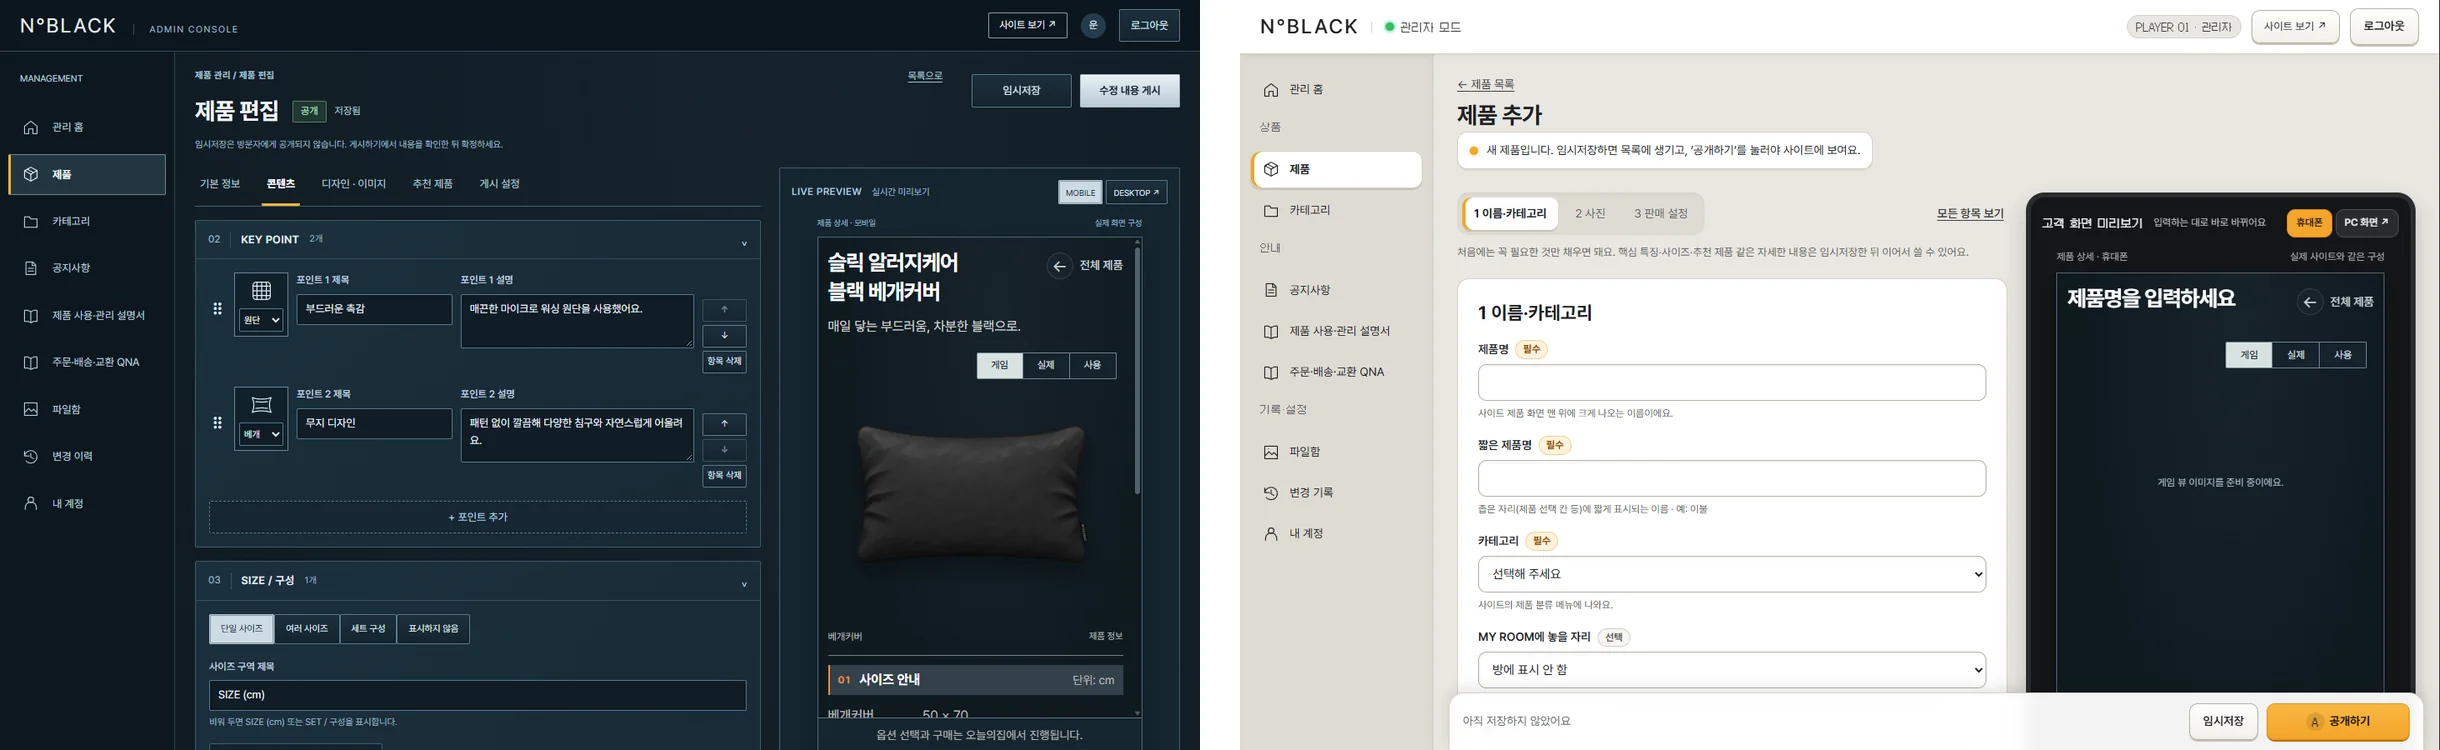
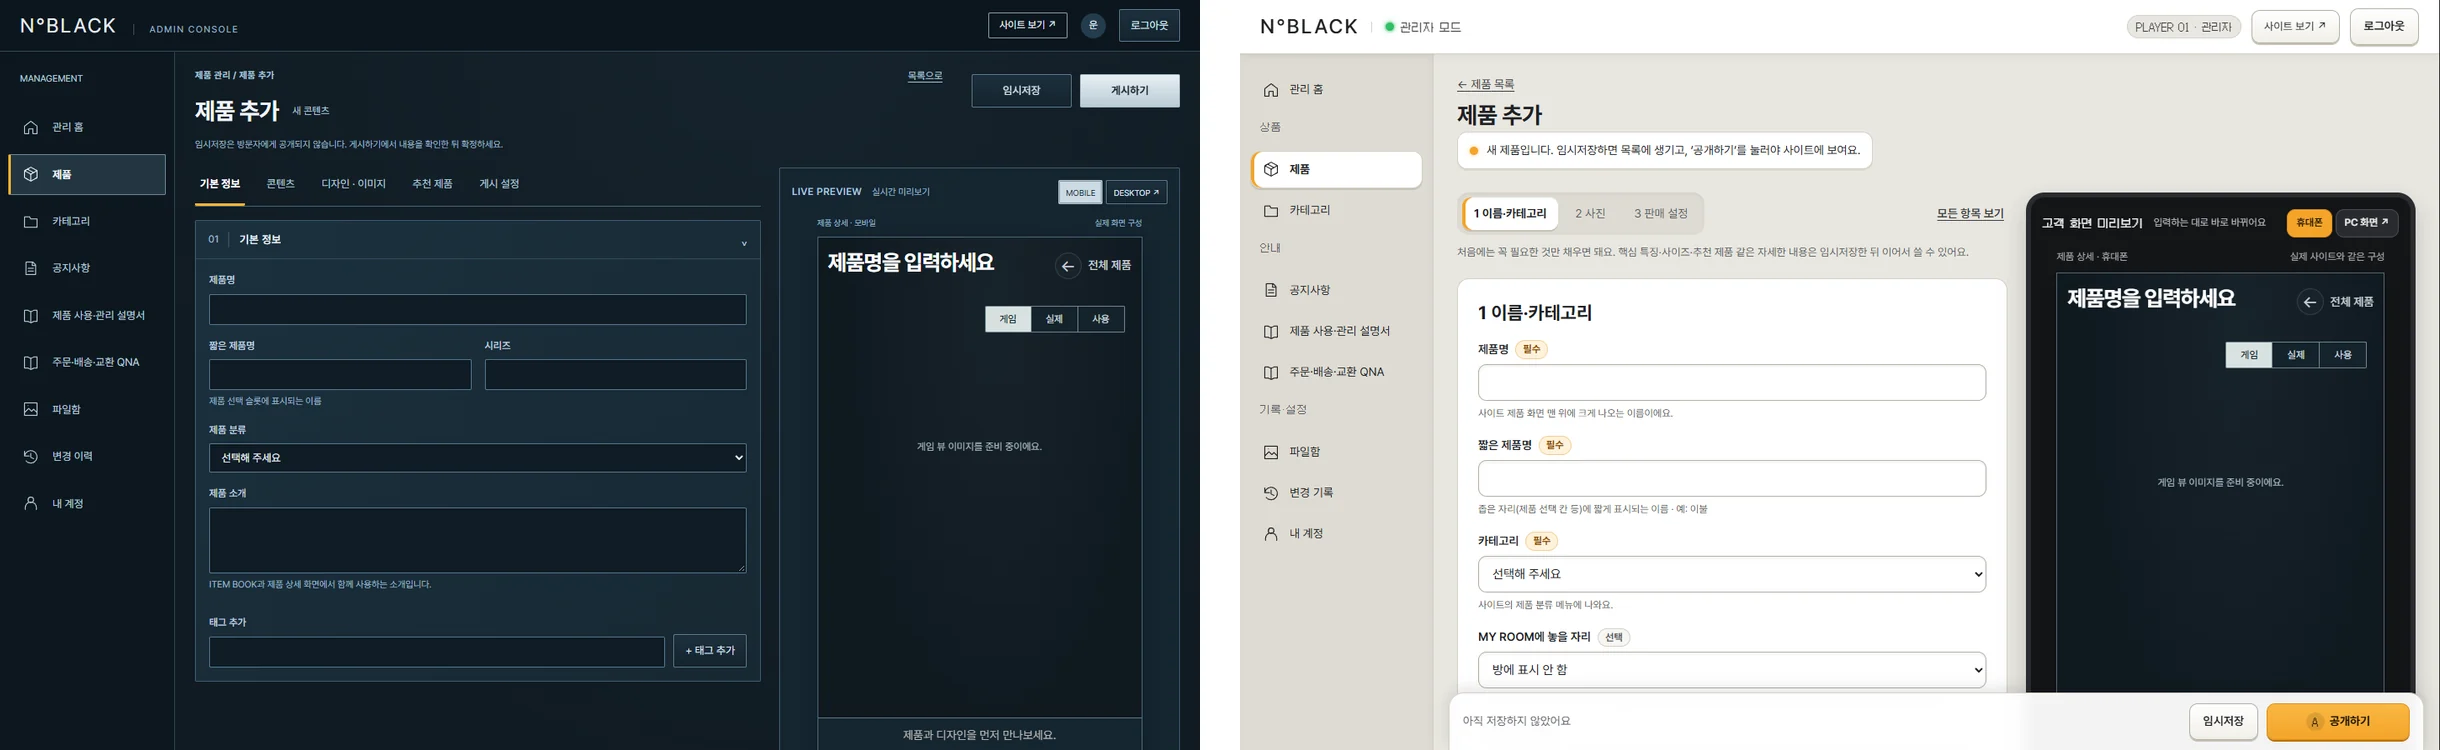
fix: 사례 03 비교를 같은 제품 추가 화면끼리로 바꾸고 결과 문구 정정
개선 전 콘텐츠 탭과 개선 후 제품 추가 1단계는 서로 다른 화면이고, 콘텐츠 탭은 개선 전후 입력 칸 수가 같아 비교 근거가 되지 않았습니다.
개선 전 코드(3bfa741)의 제품 추가 첫 화면을 다시 캡처해 같은 화면끼리 비교하고, 결과를 칸 수 감소가 아닌 안 쓰이던 칸 제거와 필수·선택·표시 위치 안내로 고쳤습니다.

diff --git a/src/project-details.js b/src/project-details.js
@@ -484,13 +484,13 @@ const noblack = {
       found: '운영을 시작한 뒤 대표가 직접 제품을 등록·수정하면서 관리자 화면을 어려워했습니다. 개발자가 아닌 사람이 처음 쓴다고 생각하고 화면과 저장 데이터를 다시 점검했습니다.',
       cause: '새 제품도 기존 제품과 같은 편집 화면에서 탭 5개(기본 정보 / 콘텐츠 / 디자인·이미지 / 추천 제품 / 게시 설정)를 오가며 입력해야 했고, 꼭 채워야 하는 칸과 비워도 되는 칸이 구분되지 않았습니다. 안내 문구에는 ITEM BOOK 같은 사이트 내부 이름이 그대로 쓰였고, 미리보기는 있었지만 입력 칸과 연결되지 않아 값이 고객 화면 어디에 나오는지 알기 어려웠습니다. 저장 데이터도 확인해 보니 태그·제품 이야기는 저장만 되고 사이트에 나오지 않았고, 시리즈는 "SLICK이면 침대 위에 놓는다"는 숨은 규칙에만 쓰이고 있었습니다.',
       fix: [
-        '<b>새 제품은 3단계로</b>: 이름·카테고리 → 사진 → 판매 설정 순서로 꼭 필요한 것만 받고, 자세한 내용은 임시저장 뒤 이어서 쓰게 함. 칸마다 필수·선택을 표시하고, 비어 있는 선택 영역은 접어 둠',
+        '<b>새 제품은 3단계로</b>: 이름·카테고리 → 사진 → 판매 설정 순서로 꼭 필요한 것만 받고, 자세한 내용은 임시저장 뒤 이어서 쓰게 함. 칸마다 필수·선택과 사이트 어디에 나오는지를 적고, 비어 있는 선택 영역은 접어 둠',
         '<b>입력 칸과 고객 화면 연결</b>: 칸을 누르면 미리보기에서 그 값이 나오는 자리가 강조되고, "무엇을 바꾸시겠어요?" 바로가기로 고칠 곳에 바로 이동. 안내 문구는 쉬운 말로 바꾸고, 관리자 화면은 흔한 쇼핑몰 관리자처럼 밝은 작업 화면으로 바꿈',
         '<b>쓰지 않는 칸 정리</b>: 사이트에 나오지 않던 태그·제품 이야기 칸을 없애고, 시리즈에 숨어 있던 규칙은 제품마다 고르는 MY ROOM 자리(침대·소파·방에 표시 안 함)로 바꿈',
         '<b>직접 정한 기준</b>: 잘 안 쓰는 기능을 "고급" 메뉴로 숨기는 안은 대표가 기능이 있는지조차 모를 수 있어 빼고, 큰 사진은 자동으로 줄이지 않고 줄여서 올릴지 먼저 물어보게 함',
       ],
-      result: '새 제품 등록을 탭 5개에서 3단계로 줄이고, 쓰지 않던 입력 칸 3개(태그·제품 이야기·시리즈)를 없앰', resultNote: '운영 제품 9개를 예전 규칙과 같은 자리로 옮기고, 규칙이 같은지 테스트로 확인',
-      image: { src: '/assets/noblack-screens/admin-before-after.webp', w: 2440, h: 750, alt: '관리자 화면 개선 전후. 왼쪽 개선 전 제품 편집은 어두운 화면의 콘텐츠 탭으로, 탭 5개 아래에 KEY POINT와 SIZE / 구성 영역이 이어지고 포인트마다 아이콘 선택·순서 버튼·항목 삭제가 붙어 있음. 오른쪽 개선 후 새 제품 추가는 밝은 화면에 1 이름·카테고리, 2 사진, 3 판매 설정 단계가 있고 제품명·짧은 제품명·카테고리에 필수, MY ROOM에 놓을 자리에 선택 표시가 붙음', caption: '개선 전 콘텐츠 탭(왼쪽, 개선 전 코드를 운영 데이터로 다시 띄워 캡처)과 개선 후 새 제품 등록(오른쪽, 운영 화면 캡처)' },
+      result: '안 쓰이던 칸(태그·제품 이야기·시리즈)을 없애고, 필수·선택과 표시 위치를 알려 주는 3단계 등록으로 바꿈', resultNote: '운영 제품 9개를 예전 규칙과 같은 자리로 옮기고, 규칙이 같은지 테스트로 확인',
+      image: { src: '/assets/noblack-screens/admin-before-after.webp', w: 2440, h: 750, alt: '관리자 화면 개선 전후. 왼쪽 개선 전 제품 추가는 어두운 화면에 탭 5개가 있고, 첫 탭에 제품명·짧은 제품명·시리즈·제품 분류·제품 소개·태그 추가 칸이 필수·선택 표시 없이 놓이며 ITEM BOOK 같은 내부 이름이 안내에 쓰임. 오른쪽 개선 후 제품 추가는 밝은 화면에 1 이름·카테고리, 2 사진, 3 판매 설정 단계가 있고 제품명·짧은 제품명·카테고리에 필수, MY ROOM에 놓을 자리에 선택 표시가 붙음', caption: '같은 제품 추가 첫 화면의 개선 전(왼쪽, 개선 전 코드를 다시 띄워 캡처)과 개선 후(오른쪽, 운영 화면 캡처)' },
     },
   ],
   retro: [
